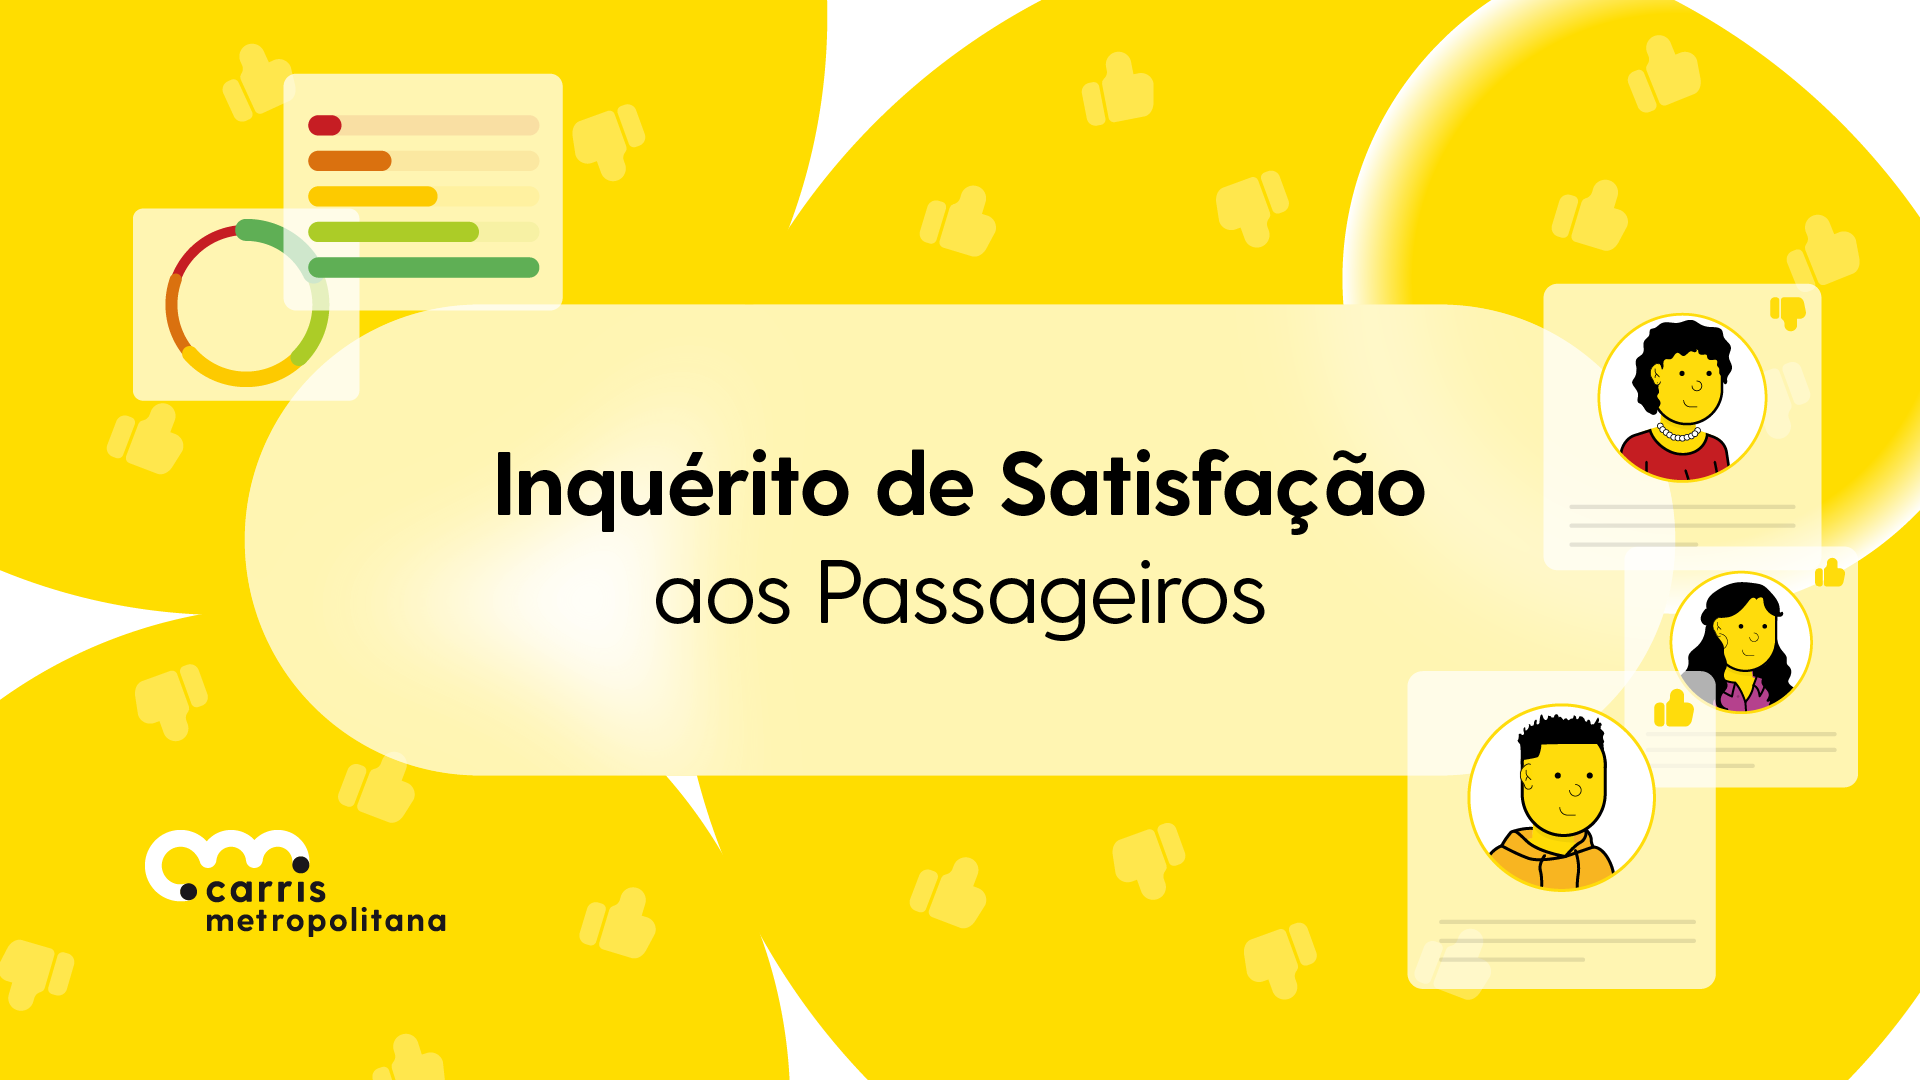
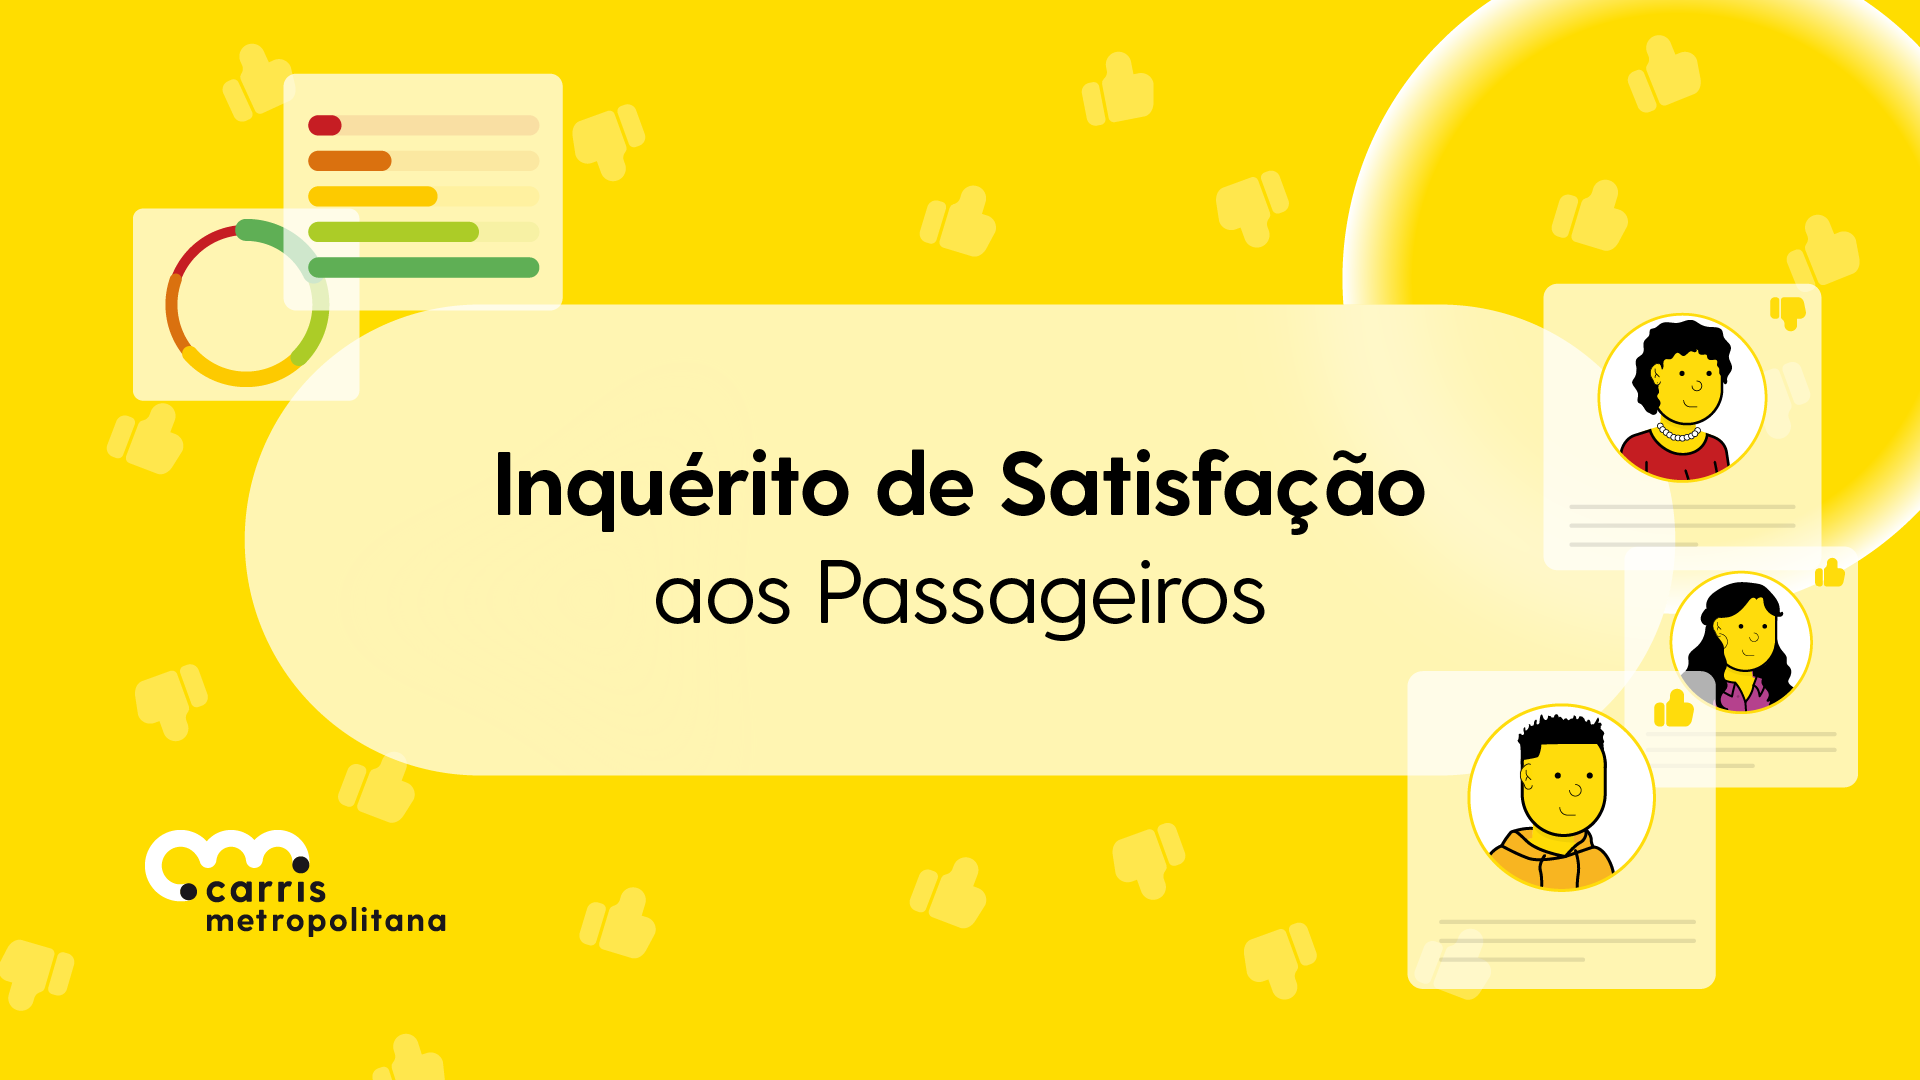
Updated image

diff --git a/frontend/components/home/MainCarousel/styles.module.css b/frontend/components/home/MainCarousel/styles.module.css
@@ -5,9 +5,9 @@
 	position: fixed;
 	top: 0;
 	left: 0;
+	visibility: hidden;
 	width: 100%;
 	height: 100%;
-	visibility: hidden;
 	background-color: rgb(255 255 255 / 25%);
 	opacity: 0;
 	transition: all 200ms ease;
@@ -39,7 +39,7 @@
 .root {
 	overflow: hidden;
 	cursor: grab;
-	background-color: var(--color-brand);
+	background-color: var(--color-system-background-100);
 	border-radius: var(--border-radius-lg);
 	transition: all 200ms ease;
 }